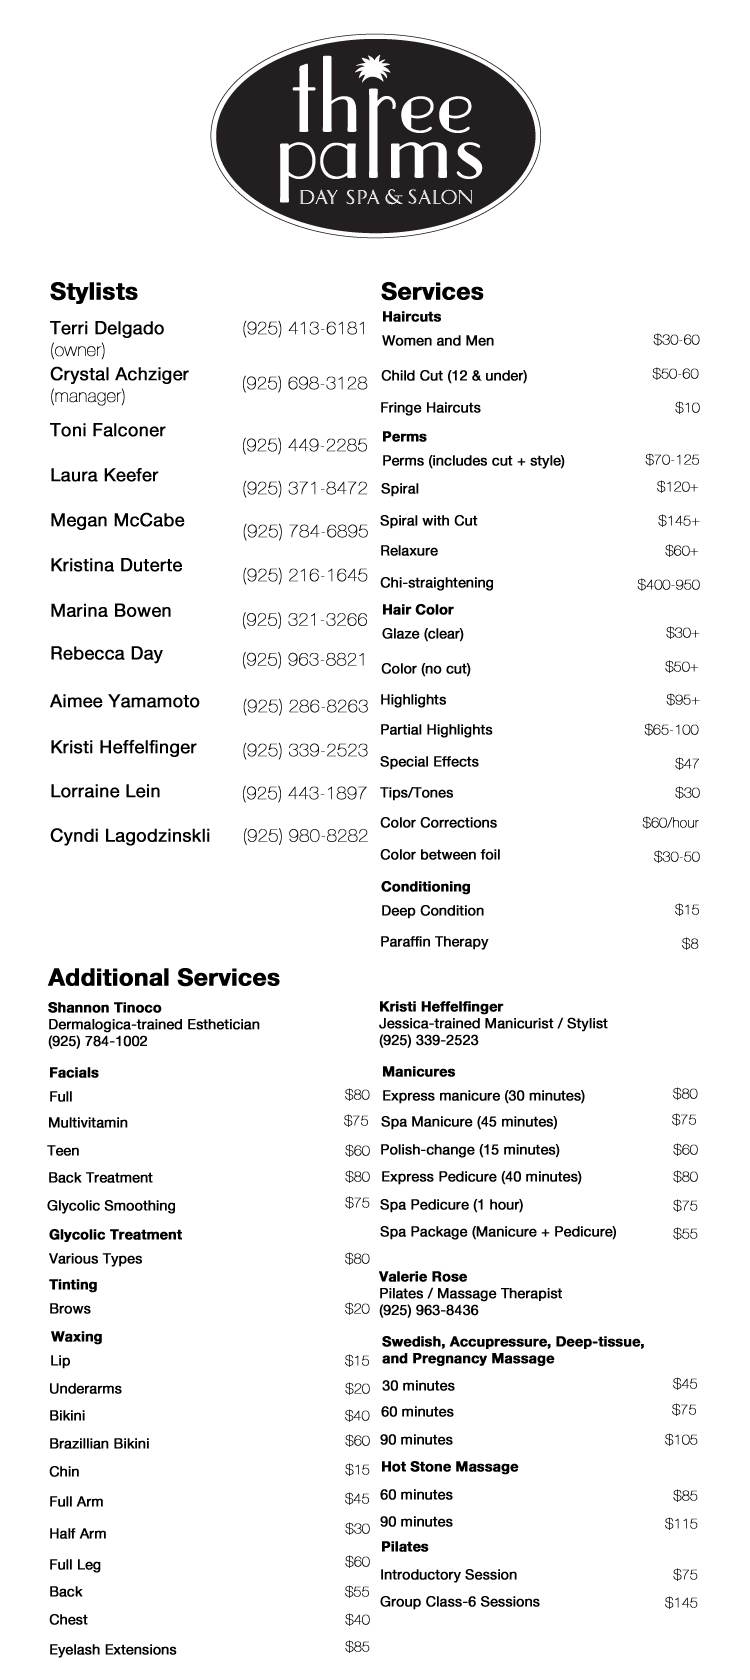
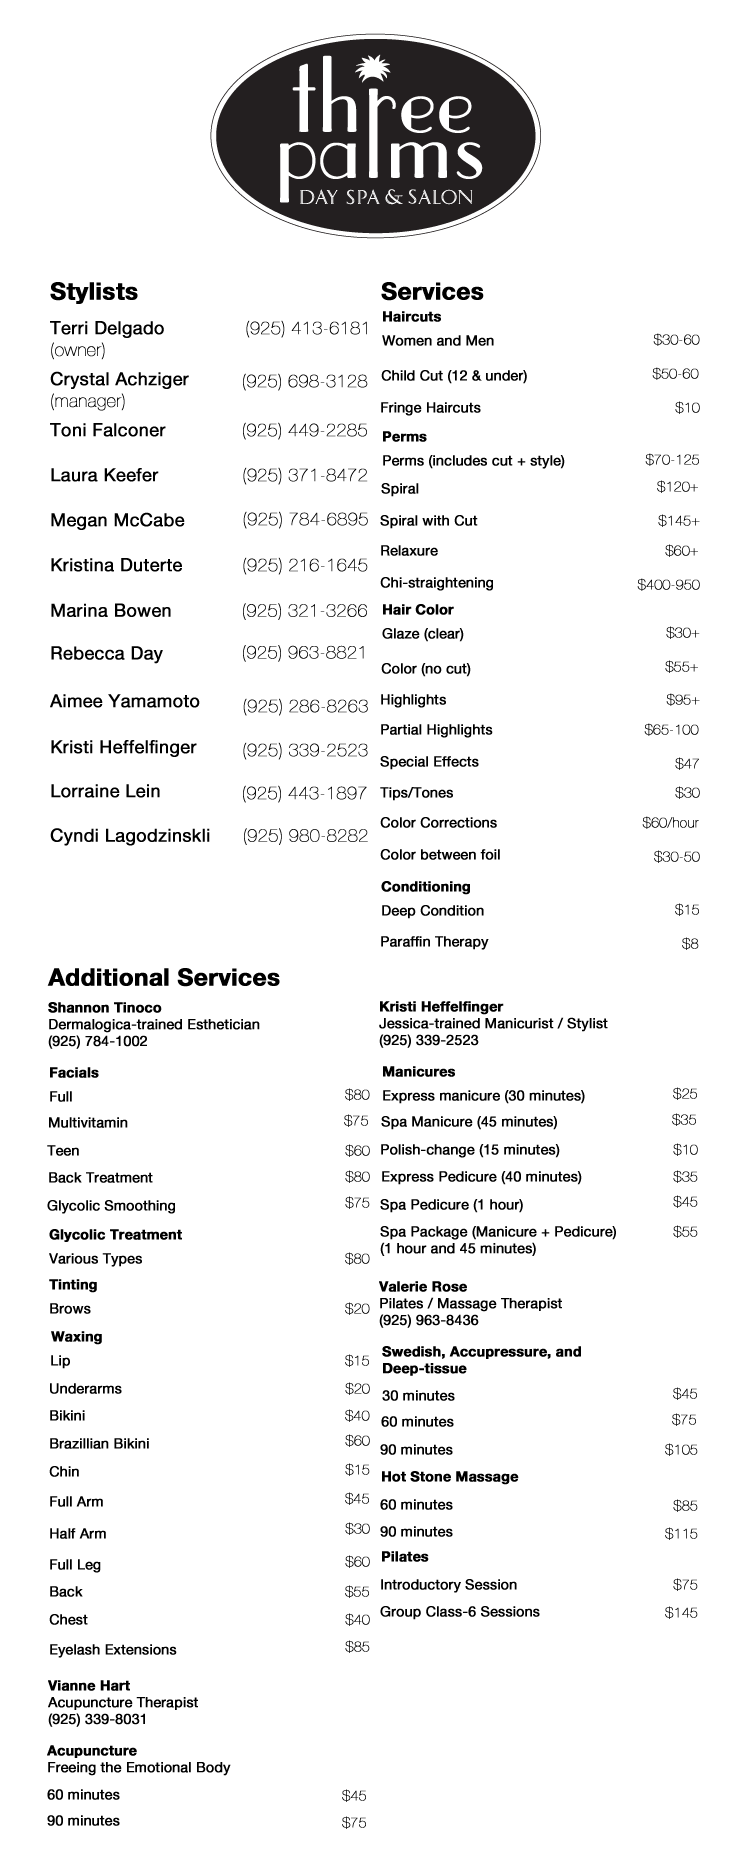
swfobject

diff --git a/lib/j/animations.js b/lib/j/animations.js
@@ -24,15 +24,24 @@ function loadPage() {
 		pause: true
 	});
 		
+    swfobject.embedSWF("http://threepalmssalon.com/lib/i/panoramas/pano1_stitched_out.swf", "pano1", "680", "304", "9.0.0");
+    swfobject.embedSWF("http://threepalmssalon.com/lib/i/panoramas/pano2_stitched_out.swf", "pano2", "680", "304", "9.0.0");
+    swfobject.embedSWF("http://threepalmssalon.com/lib/i/panoramas/pano3_stitched_out.swf", "pano3", "680", "304", "9.0.0");
+    swfobject.embedSWF("http://threepalmssalon.com/lib/i/panoramas/pano4_stitched_out.swf", "pano4", "680", "304", "9.0.0");
+    swfobject.embedSWF("http://threepalmssalon.com/lib/i/panoramas/pano5_stitched_out.swf", "pano5", "680", "304", "9.0.0");
+    swfobject.embedSWF("http://threepalmssalon.com/lib/i/panoramas/pano6_stitched_out.swf", "pano6", "680", "304", "9.0.0");
+    swfobject.embedSWF("http://threepalmssalon.com/lib/i/panoramas/pano7_stitched_out.swf", "pano7", "680", "304", "9.0.0");
+    swfobject.embedSWF("http://threepalmssalon.com/lib/i/panoramas/pano8_stitched_out.swf", "pano8", "680", "304", "9.0.0");
+
 	$("#vrtoggle").click(function () {
-	    if ($("#vrtoggle").val() == "Virtual Tour") {
+	    if ($("#vrtoggle").text() == "Virtual Tour") {
 	       $("#slider").fadeOut(750, "easeInOutSine", null);
-	       $("vr-container").fadeIn(750, "easeInOutSine", null);
-	       $("#vrtoggle").val("Photos");
+	       $("#virtual-tours").fadeIn(750, "easeInOutSine", null);
+	       $(this).text("Photos");
 	    } else {
 	       $("#slider").fadeIn(750, "easeInOutSine");
-	       $("vr-container").fadeOut(750, "easeInOutSine");
-	       $("#vrtoggle").val("Virtual Tour");
+	       $("#virtual-tours").fadeOut(750, "easeInOutSine");
+	       $(this).text("Virtual Tour");
 	    }
 	});
 }

diff --git a/index.html b/index.html
@@ -32,6 +32,10 @@
     <script type="text/javascript"
           src="lib/j/jquery.keybind.min.js">
 </script>
+	<script type="text/javascript"
+          src="lib/j/swfobject.js">
+</script>
+
     <script type="text/javascript"
           src="lib/j/animations.js">
 </script><!-- Google Maps API -->
@@ -158,7 +162,7 @@
     <div id="bottom">
         <div id="slider-overlay"></div>
         	
-        <span id="vrtoggle">Virtual Tour</span>
+        <p id="vrtoggle">Virtual Tour</p>
         
         <ul id="slider"
             class="init rounded">
@@ -194,6 +198,33 @@
 
             <li><img src="lib/i/slides/Slide11.png"
                  class="rounded slide" /></li>
+        </ul>
+        
+        <ul id="virtual-tours">
+        	<li class="vtour">
+	        	<div class="tour-content" id="pano1"></div>
+        	</li>
+        	<li class="vtour">
+	        	<div class="tour-content" id="pano2"></div>
+        	</li>
+        	<li class="vtour">
+	        	<div class="tour-content" id="pano3"></div>
+        	</li>
+        	<li class="vtour">
+	        	<div class="tour-content" id="pano4"></div>
+        	</li>
+        	<li class="vtour">
+	        	<div class="tour-content" id="pano5"></div>
+        	</li>
+        	<li class="vtour">
+	        	<div class="tour-content" id="pano6"></div>
+        	</li>
+        	<li class="vtour">
+	        	<div class="tour-content" id="pano7"></div>
+        	</li>
+        	<li class="vtour">
+	        	<div class="tour-content" id="pano8"></div>
+        	</li>
         </ul>
     </div>
 

diff --git a/lib/c/style.css b/lib/c/style.css
@@ -243,7 +243,7 @@ ol,ul {
 #digital-table {
 	position: absolute;
 	width: 750px;
-	height: 1680px;
+	height: 1850px;
 	background: white url('../i/pricesheet.png');
 }
 
@@ -323,6 +323,14 @@ a:hover {
     text-align:center;
     margin-left:-320px;
     width:680px;
+}
+
+#virtual-tours {
+	display: none;
+	left: 50%;
+	width:680px;
+	margin-left: -350px;
+	position: absolute;
 }
 
 #slider {
